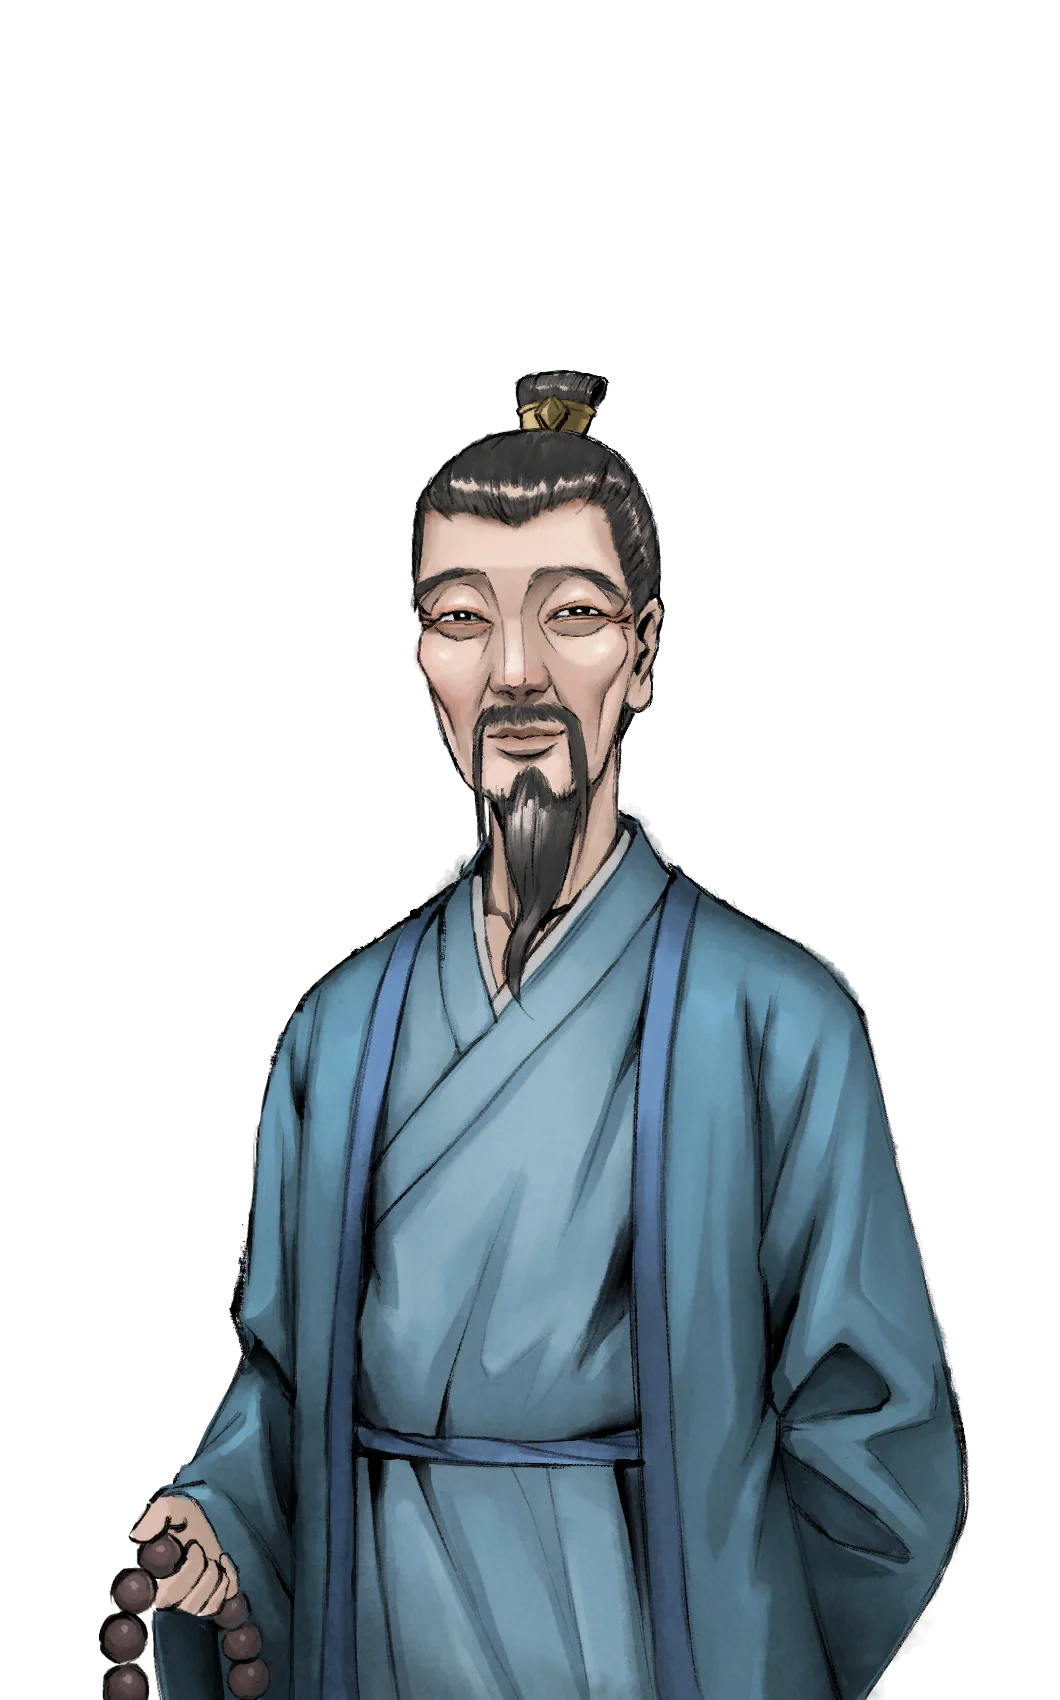
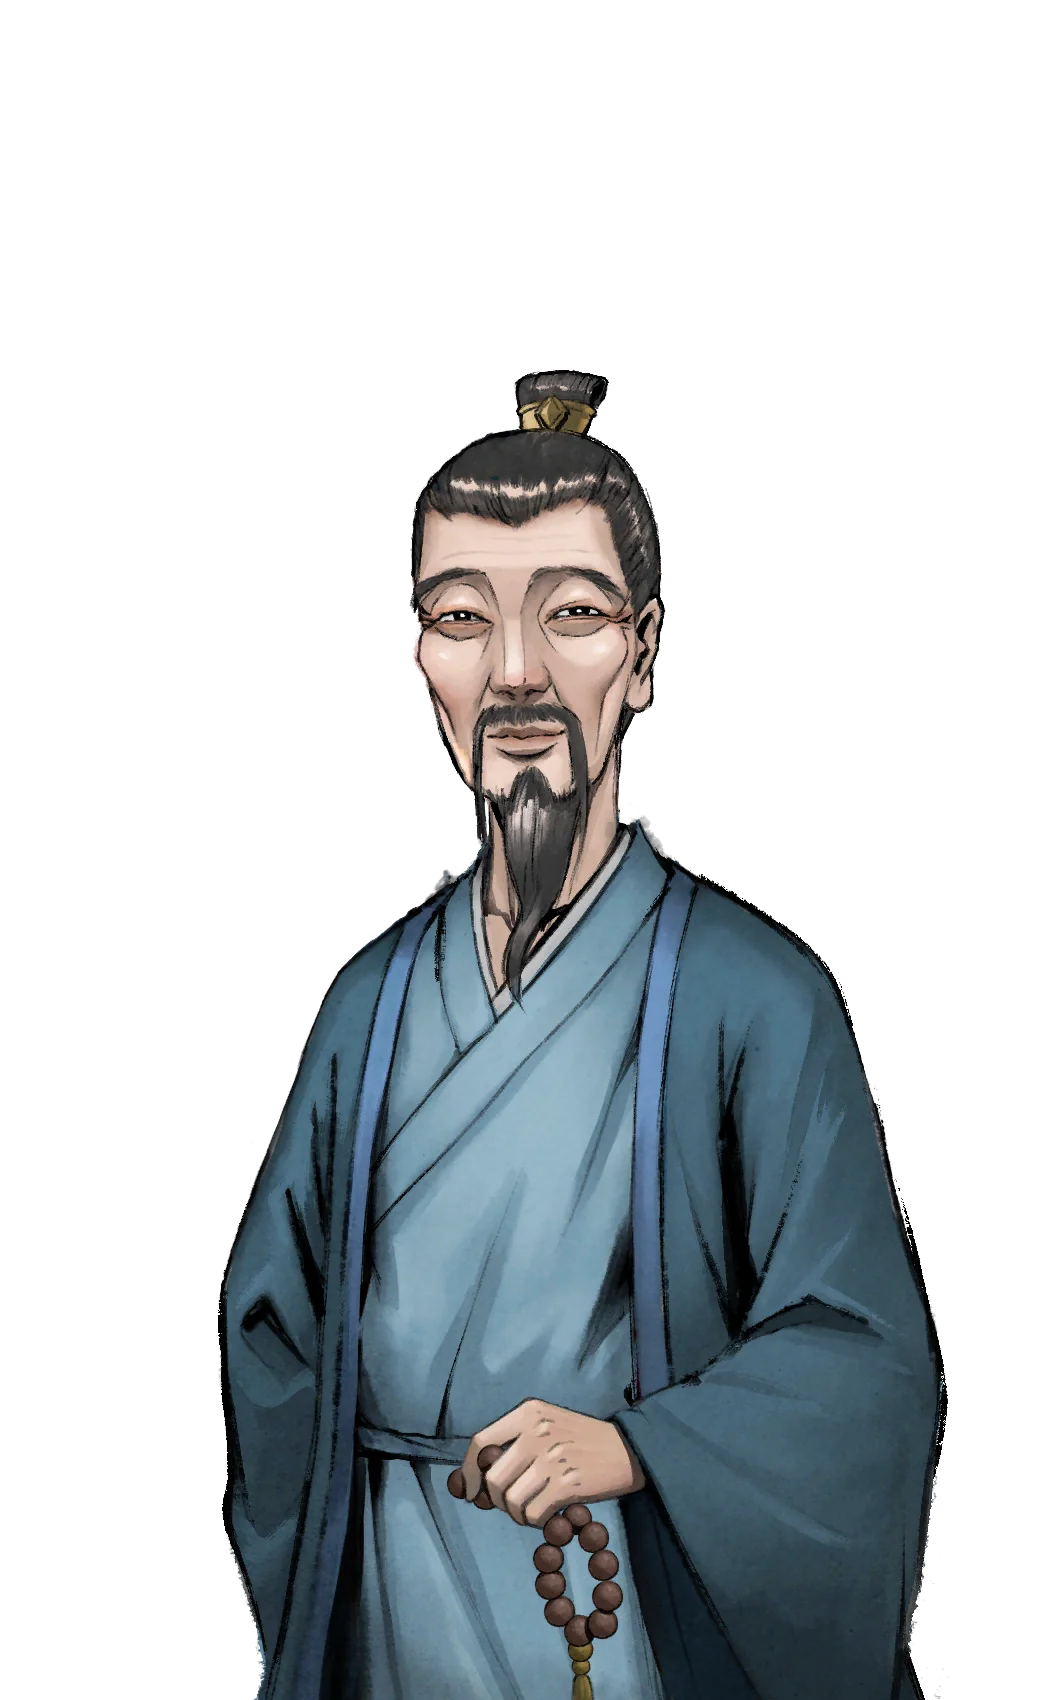
唐守鴻補上 6 個表情分頁並換新版立繪

diff --git a/docs/people/characters/special812.md b/docs/people/characters/special812.md
@@ -54,6 +54,30 @@ tags:
 			</ChTr>
 		</ChTable>
 	</ChTab>
+	<ChTab title="汗顏">
+		<Ch src='/images/characters/special812/nervous1.webp' position='center'/>
+		<ChName nameZh='汗顏' nameEn='Sweating' position='right' />
+	</ChTab>
+	<ChTab title="生氣">
+		<Ch src='/images/characters/special812/angry1.webp' position='center'/>
+		<ChName nameZh='生氣' nameEn='Angry' position='right' />
+	</ChTab>
+	<ChTab title="受傷">
+		<Ch src='/images/characters/special812/hurt.webp' position='center'/>
+		<ChName nameZh='受傷' nameEn='Injured' position='right' />
+	</ChTab>
+	<ChTab title="受傷(汗)">
+		<Ch src='/images/characters/special812/hurt_nervous.webp' position='center'/>
+		<ChName nameZh='受傷(汗)' nameEn='Injured (Sweat)' position='right' />
+	</ChTab>
+	<ChTab title="受傷(不悅)">
+		<Ch src='/images/characters/special812/hurt_angry.webp' position='center'/>
+		<ChName nameZh='受傷(不悅)' nameEn='Injured (Displeased)' position='right' />
+	</ChTab>
+	<ChTab title="藍色守鴻傳說">
+		<Ch src='/images/characters/special812/blue.webp' position='center'/>
+		<ChName nameZh='藍色守鴻傳說' nameEn='The Legend of Blue Shou Hong' position='right' />
+	</ChTab>
 </ChTabs>
 <br><br>
 
